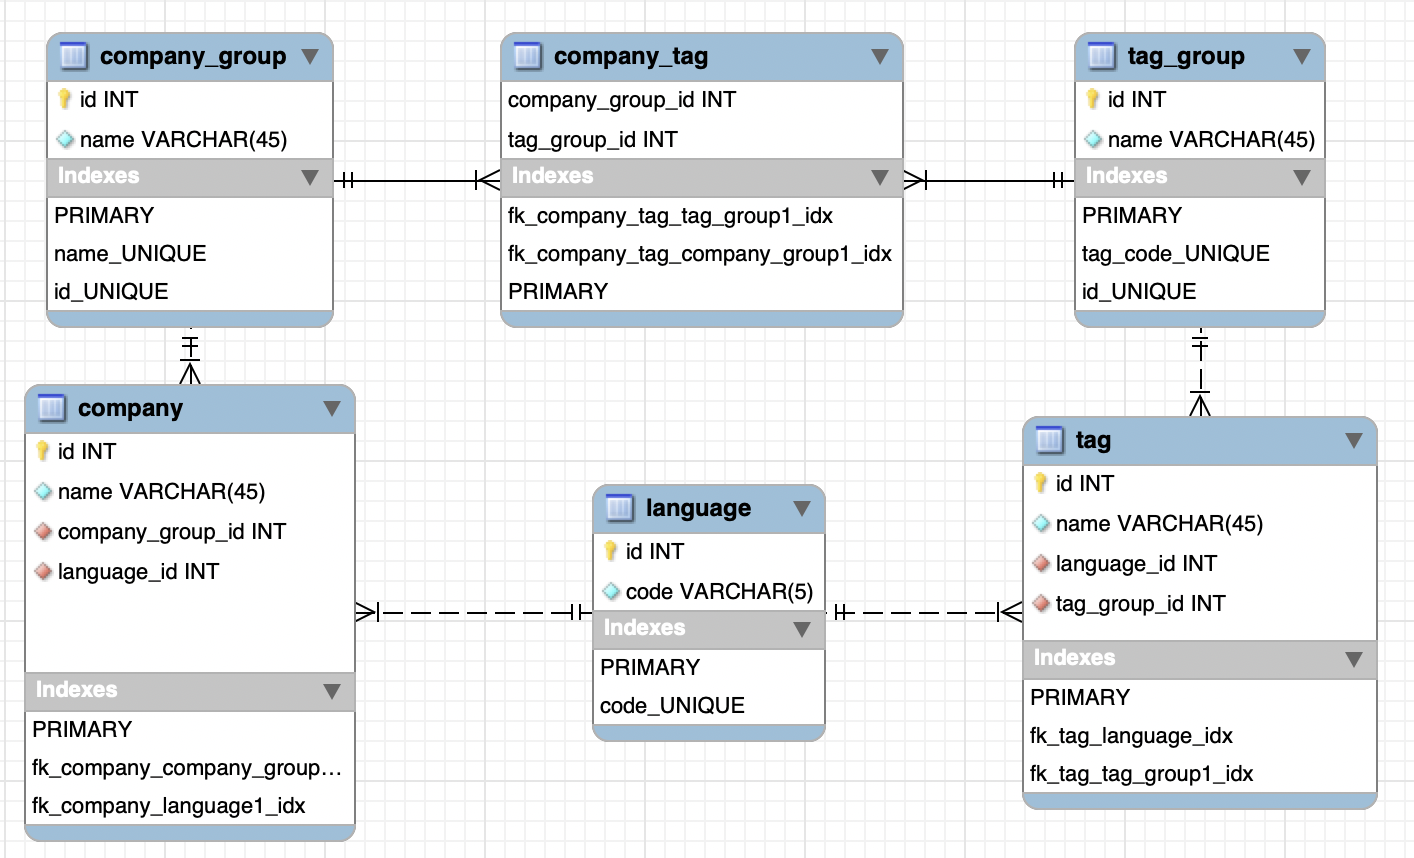
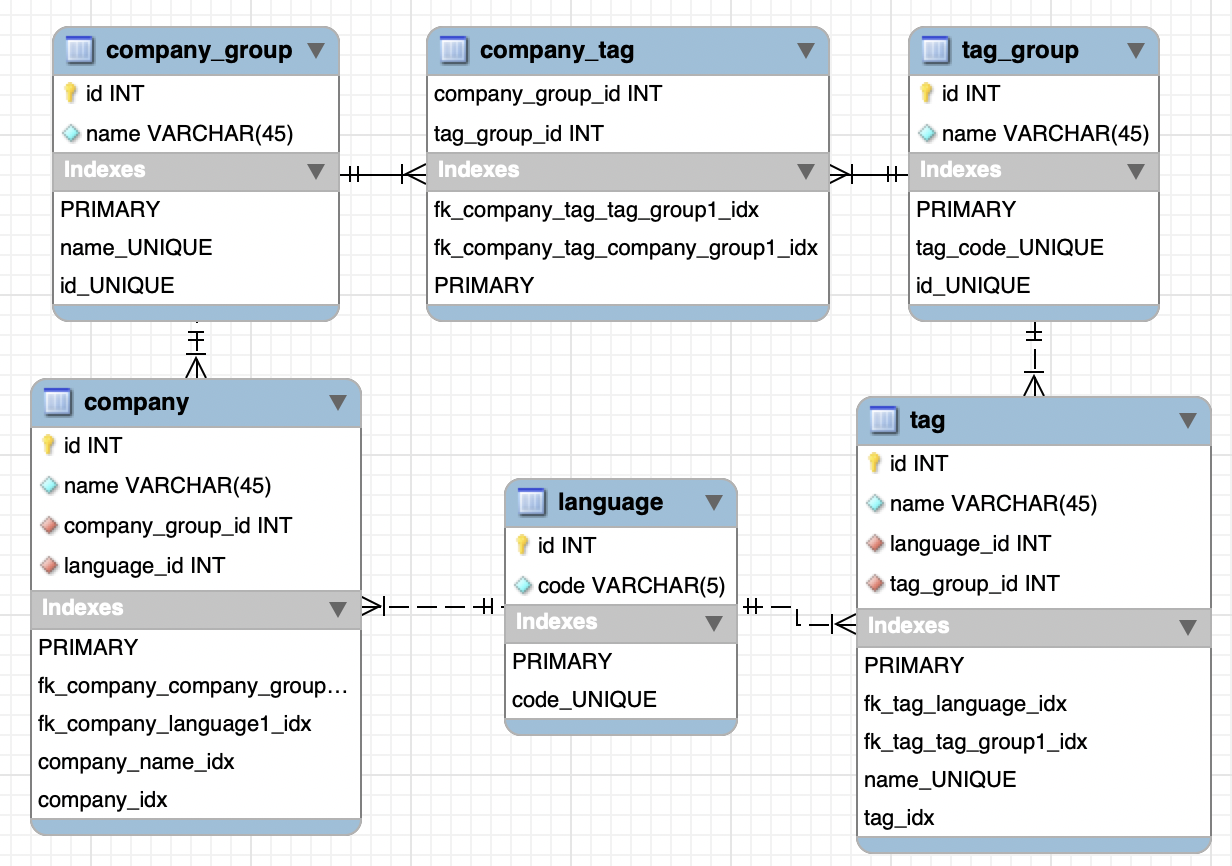
under construction

Changed region(s): [[0.0, 0.0303, 1.0, 1.0], [0.586, 0.9091, 0.6169, 0.9394], [0.4627, 0.9091, 0.4935, 0.9394]]

diff --git a/db/model/taggroup.py b/db/model/taggroup.py
@@ -53,7 +53,7 @@ class TagGroupModel(Base):
 
         try:
             tag_group = session.query(TagGroupModel).filter(TagGroupModel.name == tag_group_name).one()
-            session.add(tag_group)
+            session.delete(tag_group)
             session.commit()
 
         except (

diff --git a/docs/query.md b/docs/query.md
@@ -50,6 +50,7 @@ CREATE TABLE IF NOT EXISTS `company_info`.`company` (
   INDEX `fk_company_company_group1_idx` (`company_group_id` ASC),
   INDEX `fk_company_language1_idx` (`language_id` ASC),
   FULLTEXT INDEX `company_name_idx` (`name`) WITH PARSER NGRAM,
+  UNIQUE INDEX `company_idx` (`company_group_id` ASC, `language_id` ASC),
   CONSTRAINT `fk_company_company_group1`
     FOREIGN KEY (`company_group_id`)
     REFERENCES `company_info`.`company_group` (`id`)
@@ -58,8 +59,8 @@ CREATE TABLE IF NOT EXISTS `company_info`.`company` (
   CONSTRAINT `fk_company_language1`
     FOREIGN KEY (`language_id`)
     REFERENCES `company_info`.`language` (`id`)
-    ON DELETE NO ACTION
-    ON UPDATE NO ACTION)
+    ON DELETE CASCADE
+    ON UPDATE CASCADE)
 ENGINE = InnoDB;
 
 
@@ -86,11 +87,13 @@ CREATE TABLE IF NOT EXISTS `company_info`.`tag` (
   PRIMARY KEY (`id`),
   INDEX `fk_tag_language_idx` (`language_id` ASC),
   INDEX `fk_tag_tag_group1_idx` (`tag_group_id` ASC),
+  UNIQUE INDEX `name_UNIQUE` (`name` ASC),
+  UNIQUE INDEX `tag_idx` (`language_id` ASC, `tag_group_id` ASC),
   CONSTRAINT `fk_tag_language`
     FOREIGN KEY (`language_id`)
     REFERENCES `company_info`.`language` (`id`)
-    ON DELETE NO ACTION
-    ON UPDATE NO ACTION,
+    ON DELETE CASCADE
+    ON UPDATE CASCADE,
   CONSTRAINT `fk_tag_tag_group1`
     FOREIGN KEY (`tag_group_id`)
     REFERENCES `company_info`.`tag_group` (`id`)
@@ -111,13 +114,13 @@ CREATE TABLE IF NOT EXISTS `company_info`.`company_tag` (
   CONSTRAINT `fk_company_tag_company_group1`
     FOREIGN KEY (`company_group_id`)
     REFERENCES `company_info`.`company_group` (`id`)
-    ON DELETE NO ACTION
-    ON UPDATE NO ACTION,
+    ON DELETE CASCADE
+    ON UPDATE CASCADE,
   CONSTRAINT `fk_company_tag_tag_group1`
     FOREIGN KEY (`tag_group_id`)
     REFERENCES `company_info`.`tag_group` (`id`)
-    ON DELETE NO ACTION
-    ON UPDATE NO ACTION)
+    ON DELETE CASCADE
+    ON UPDATE CASCADE)
 ENGINE = InnoDB;
 
 
